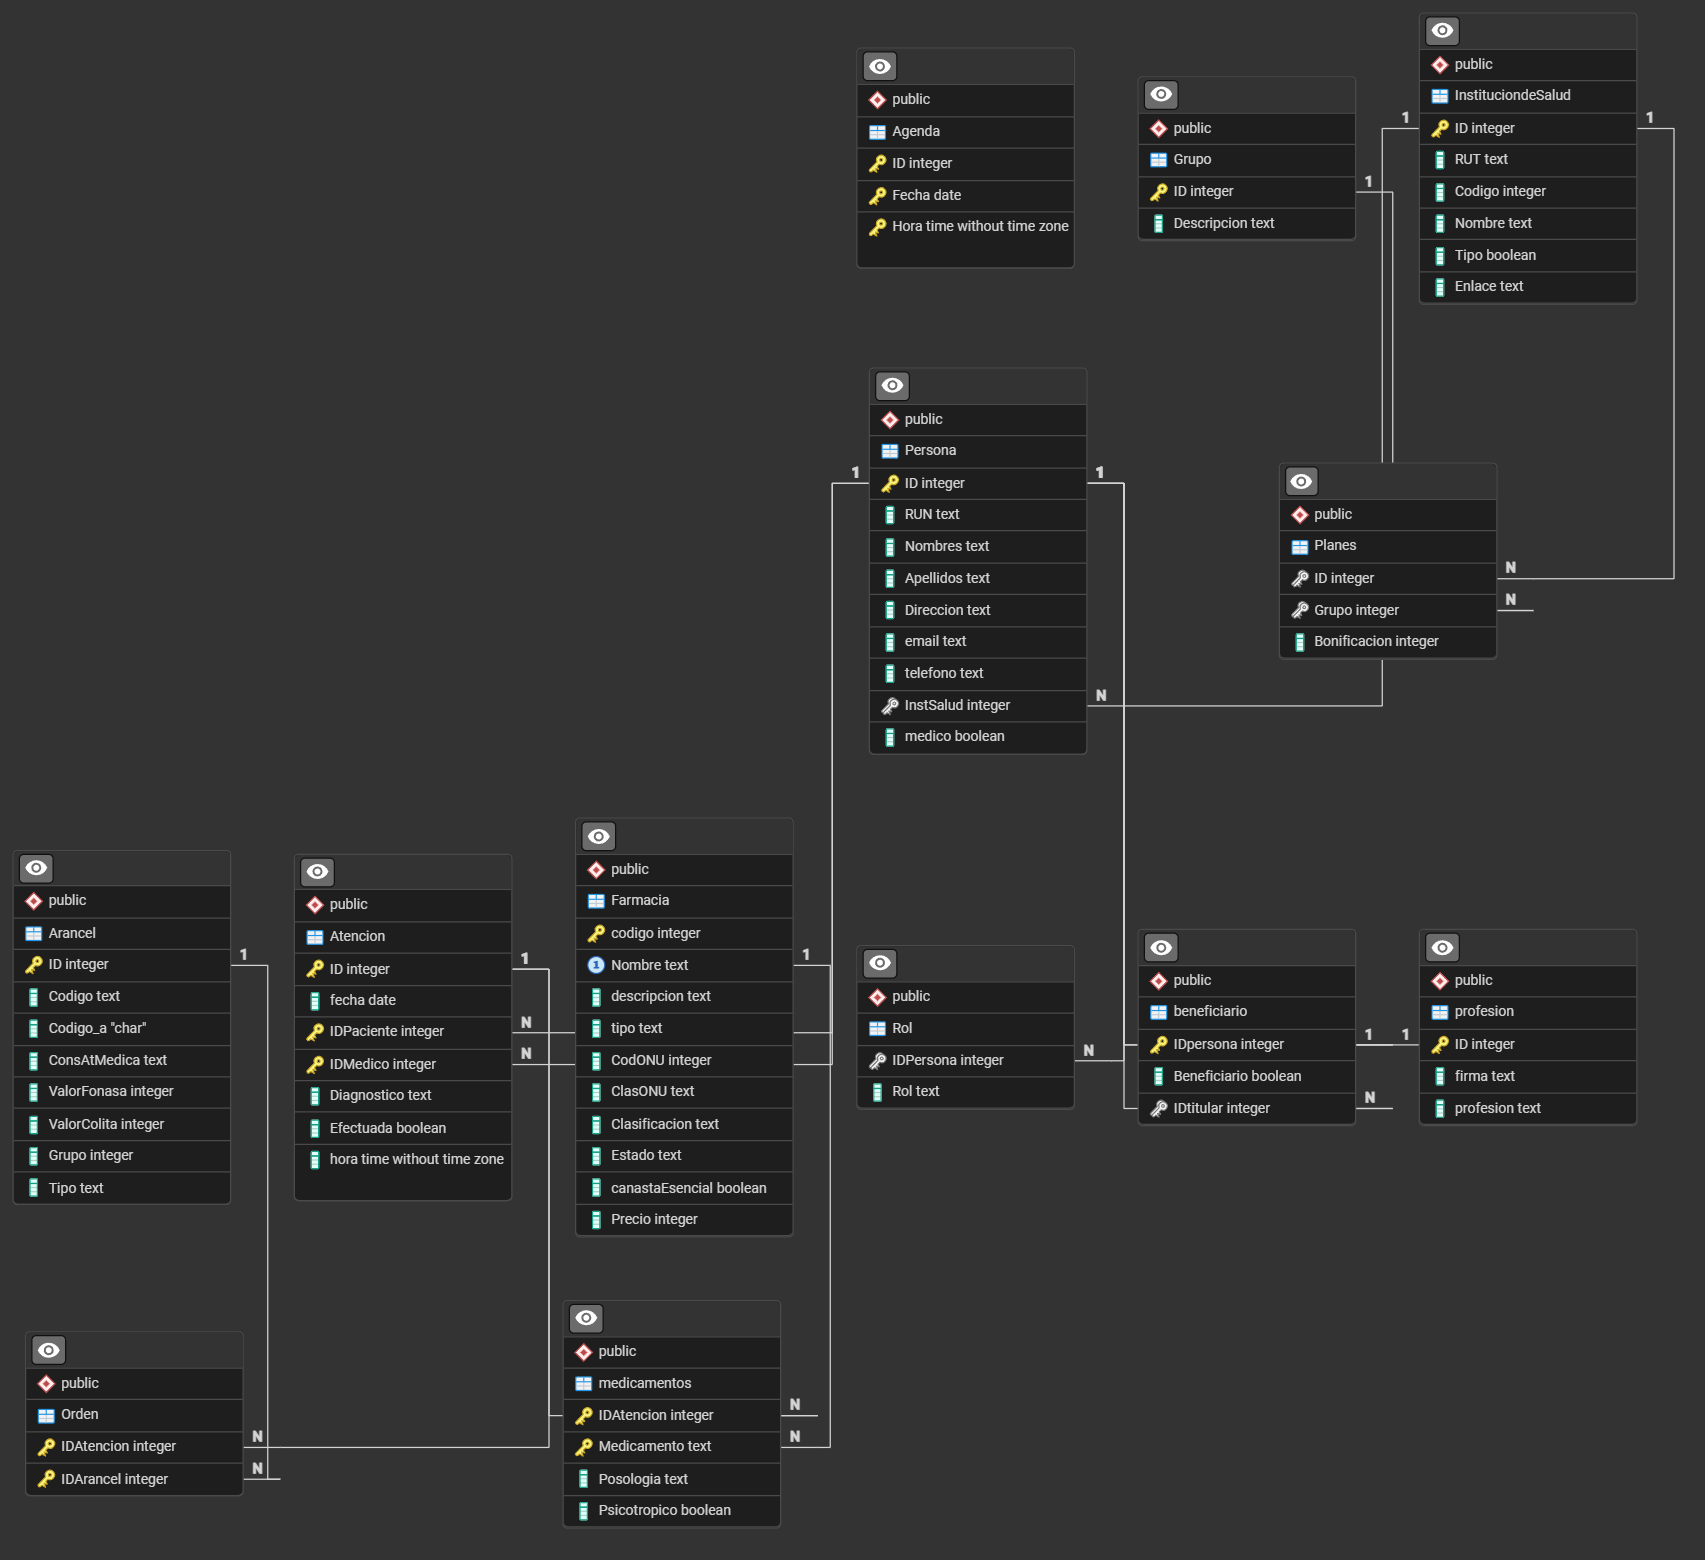
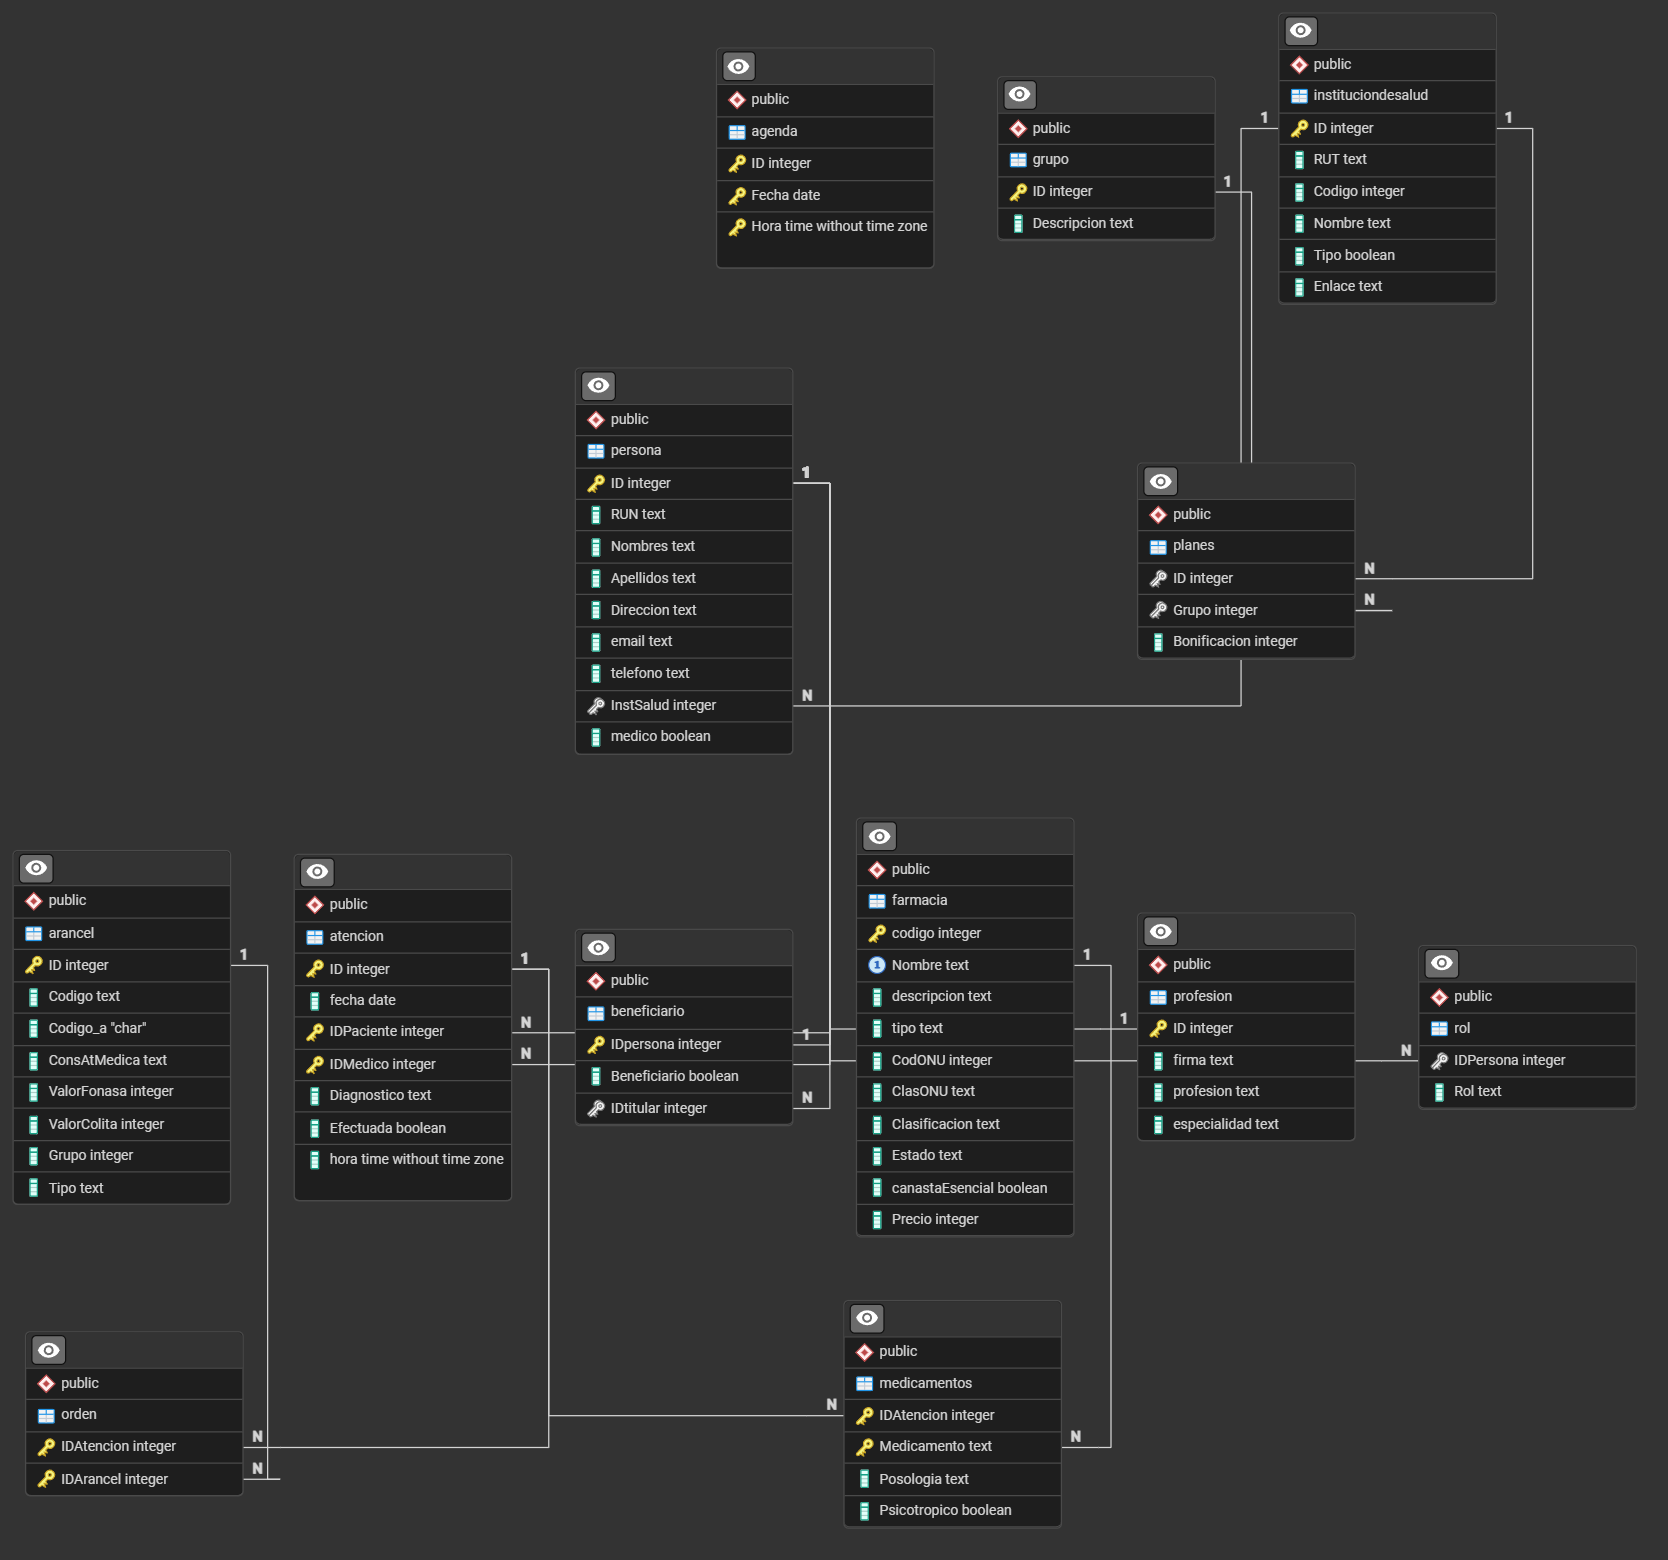
fix y esquema

diff --git a/E4/Sites/E4/php/main_medico.php b/E4/Sites/E4/php/main_medico.php
@@ -25,9 +25,13 @@ if (!isset($_SESSION['usuario'])){
             <button type="submit">Ingresar Diagnostico</button>
         </form>
         <?php if (isset($_SESSION['diagnosticado'])): ?>
-            <h1> Ingrese medicamentos a ingresar </h1>
+            <h1> Ingrese medicamentos (no psicotropicos) a ingresar </h1>
             <form action="ingresar_medicamentos_ordenes.php" method="POST">
                 <
+            <h2> Ingrese psicotrópicos a ingresar </h2>
+
+            <h3> Ingrese Ordenes a ingresar </h3>
+        <?php endif; ?>
     </div>
 </body>
 </html>
